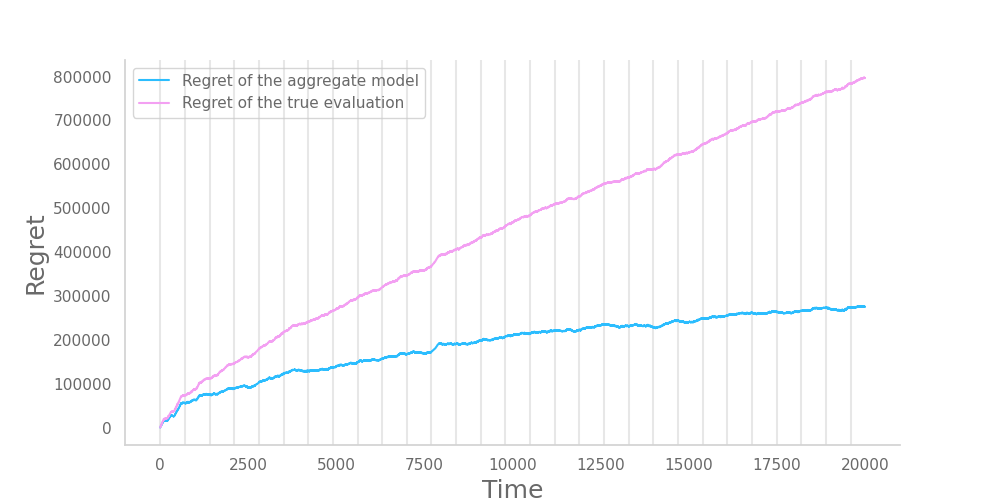
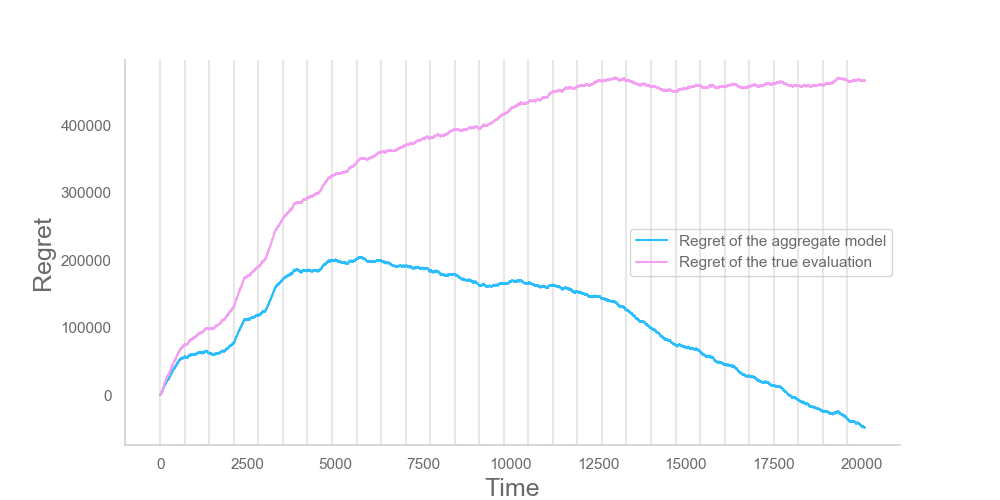
keep daily price for part 5

diff --git a/project/part_5/Testing_Env_5.py b/project/part_5/Testing_Env_5.py
@@ -35,18 +35,38 @@ def execute_experiment(args):
         if new_week:  # in this case we can generate new contexts and new learners
             campaign_scheduler.context_update()
 
-        user = User(random=True)
-
         if keep_daily_price:
+            user_elegant = User(class_name='elegant')
+            user_casual = User(class_name='casual')
+            user_sport = User(class_name='sports')
+
             if new_day:
-                pulled_arm = campaign_scheduler.pull_arm_from_user(user)
+                pulled_arm_elegant = campaign_scheduler.pull_arm_from_user(user_elegant)
+                pulled_arm_casual = campaign_scheduler.pull_arm_from_user(user_casual)
+                pulled_arm_sport = campaign_scheduler.pull_arm_from_user(user_sport)
+
+            new_week, reward, current_date, new_day, done, opt_revenue = env.round(pulled_arm_elegant, user_elegant)
+            campaign_scheduler.update(user_elegant, pulled_arm_elegant, reward)
+            optimal_revenues = np.append(optimal_revenues, opt_revenue)
+
+            new_week, reward, current_date, new_day, done, opt_revenue = env.round(pulled_arm_casual, user_casual)
+            campaign_scheduler.update(user_casual, pulled_arm_casual, reward)
+            optimal_revenues = np.append(optimal_revenues, opt_revenue)
+
+            new_week, reward, current_date, new_day, done, opt_revenue = env.round(pulled_arm_sport, user_sport)
+            campaign_scheduler.update(user_sport, pulled_arm_sport, reward)
+            optimal_revenues = np.append(optimal_revenues, opt_revenue)
+
         else:
+            user = User(random=True)
+
             pulled_arm = campaign_scheduler.pull_arm_from_user(user)
 
-        new_week, reward, current_date, new_day, done, opt_revenue = env.round(pulled_arm, user)
+            new_week, reward, current_date, new_day, done, opt_revenue = env.round(pulled_arm, user)
+            campaign_scheduler.update(user, pulled_arm, reward)
+            optimal_revenues = np.append(optimal_revenues, opt_revenue)
 
-        campaign_scheduler.update(user, pulled_arm, reward)
-        optimal_revenues = np.append(optimal_revenues, opt_revenue)
+        
 
     print(str(index) + ' has ended')
 
@@ -131,5 +151,5 @@ if __name__ == '__main__':
     plt.xlabel('Time')
     plt.ylabel('Regret')
     plt.legend()
-    plt.savefig(f'other_files/testing_part5_narms{n_arms}_keepdailyprice{keep_daily_price}.png')
+    plt.savefig(f'project/part_5/other_files/testing_part5_narms{n_arms}_keepdailyprice{keep_daily_price}.png')
     plt.show()

diff --git a/project/part_4/Testing_Env_4.py b/project/part_4/Testing_Env_4.py
@@ -16,7 +16,7 @@ from project.part_4.TS_Learner import TS_Learner
 
 np.random.seed(0)
 n_arms = 20
-keep_daily_price = False
+keep_daily_price = True
 
 
 def execute_experiment(args):
@@ -34,13 +34,13 @@ def execute_experiment(args):
 
         if keep_daily_price:
             if new_day:
-                # pulled_arm = ts_learner.pull_arm() #optimize by demand
                 pulled_arm = ts_learner.pull_arm_revenue()  # optimize by revenue
+                
         else:
             pulled_arm = ts_learner.pull_arm_revenue()  # optimize by revenue
 
         reward, current_date, new_day, done, opt_revenue = env.round(pulled_arm, user)
-
+        
         ts_learner.update(pulled_arm, reward)
         optimal_revenues = np.append(optimal_revenues, opt_revenue)
 
@@ -87,7 +87,7 @@ if __name__ == '__main__':
     plt.xlabel('Price')
     plt.ylabel('Conversion Rate')
     plt.legend()
-    plt.savefig('other_files/testing_part4_demandcurves.png')
+    plt.savefig('project/part_4/other_files/testing_part4_demandcurves.png')
     plt.show()
 
     n_experiments = 10  # the number is small to do a raw test, otherwise set it to 1000
@@ -120,5 +120,5 @@ if __name__ == '__main__':
     plt.xlabel('Time')
     plt.ylabel('Regret')
     plt.legend()
-    plt.savefig(f'other_files/testing_part4_narms{n_arms}_keepdailyprice{keep_daily_price}.png')
+    plt.savefig(f'project/part_4/other_files/testing_part4_narms{n_arms}_keepdailyprice{keep_daily_price}.png')
     plt.show()
